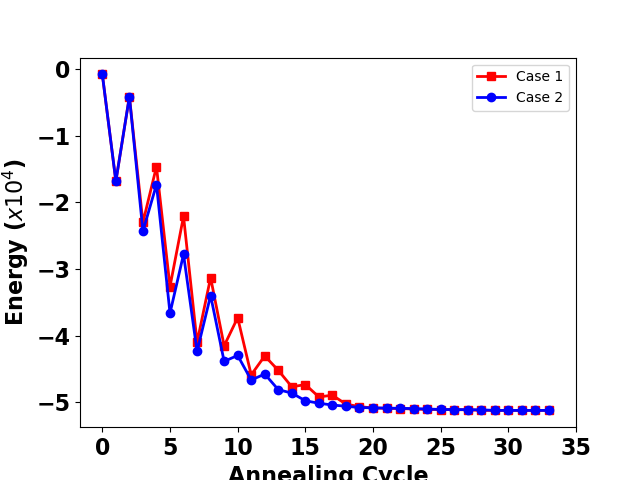
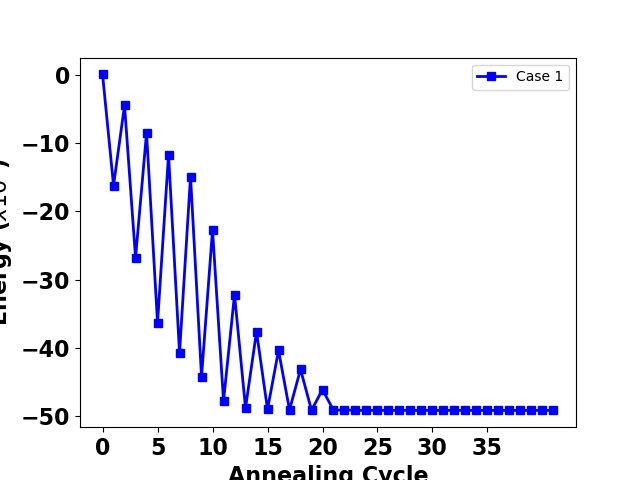
backup

diff --git a/Ising_computataion_largerImg.py b/Ising_computataion_largerImg.py
@@ -10,9 +10,9 @@ import copy
 import random
 
 
-image_size = 64*100
-rows, cols = (64,100)
-image_name ='testImg_64x100_eDRAM.png'
+image_size = 320*200
+rows, cols = (200,320)
+image_name ='testImg_320x200.png'
 
 
 def img2bin(row,col,name):
@@ -371,133 +371,8 @@ J_dict = {ind2str(2,0): [1,1,-1,-1,1,1,1,1],
           ind2str(3,3): [-1,1,1,1,1,1,1,1]}
 
 
-def ising_test_data():
-    Ising_KPI = []
-    # Generate random spin
-    randomSpin = random_spin_generator(100,rows,cols)
-    # print(randomSpin)
-    initial_spin = pad_zeros_2_list(randomSpin,rows,cols)
-    # print(initial_spin)
 
-    plt.imshow(initial_spin, cmap='Greys')
-    plt.axis('off')
-    plt.savefig('Init.png')
-    plt.show()
-
-    # Generate J
-    J = img2dict_generate_j(rows,cols,image_name)
-
-    # start Ising
-    this_spin,KPI,H_sigma_array = Ising_start(initial_spin,J,rows,cols,2,Ising_KPI)
-
-
-    # annealing
-    next_spin = annealing_ver2(30,2000,this_spin,image_size, cols)
-    # start Ising
-    this_spin,KPI,H_sigma_array = Ising_start(next_spin,J,rows,cols,1,Ising_KPI)
-
-
-    # annealing
-    next_spin = annealing_ver2(30,200,this_spin,image_size, cols)
-    # start Ising
-    this_spin,KPI,H_sigma_array = Ising_start(next_spin,J,rows,cols,1,Ising_KPI)
-
-
-    # annealing
-    next_spin = annealing_ver2(30,1200,this_spin,image_size, cols)
-    # start Ising
-    this_spin,KPI,H_sigma_array = Ising_start(next_spin,J,rows,cols,1,Ising_KPI)
-    plt.axis('off')
-    plt.savefig('iter1.png')
-    plt.imshow(this_spin, cmap='Greys')
-    plt.show()
-
-    # annealing
-    next_spin = annealing_ver2(30,200,this_spin,image_size, cols)
-    # start Ising
-    this_spin,KPI,H_sigma_array = Ising_start(next_spin,J,rows,cols,1,Ising_KPI)
-
-
-    # annealing
-    next_spin = annealing_ver2(30,900,this_spin,image_size, cols)
-    # start Ising
-    this_spin,KPI,H_sigma_array = Ising_start(next_spin,J,rows,cols,2,Ising_KPI)
-
-
-    # annealing
-    next_spin = annealing_ver2(3,500,this_spin,image_size,cols)
-    # start Ising
-    this_spin,KPI,H_sigma_array = Ising_start(next_spin,J,rows,cols,1,Ising_KPI)
-
-    # annealing
-    next_spin = annealing_ver2(3,100,this_spin,image_size,cols)
-    # start Ising
-    this_spin,KPI,H_sigma_array = Ising_start(next_spin,J,rows,cols,1,Ising_KPI)
-
-
-    # annealing
-    next_spin = annealing_ver2(4,300,this_spin,image_size,cols)
-    # start Ising
-    this_spin,KPI,H_sigma_array = Ising_start(next_spin,J,rows,cols,2,Ising_KPI)
-    plt.axis('off')
-    plt.savefig('iter2.png')
-    plt.imshow(this_spin, cmap='Greys')
-    plt.show()
-
-    # annealing
-    next_spin = annealing_ver2(42,130,this_spin,image_size,cols)
-    # start Ising
-    this_spin,KPI,H_sigma_array = Ising_start(next_spin,J,rows,cols,1,Ising_KPI)
-    # print(this_spin)
-
-
-    # annealing
-    next_spin = annealing_ver2(42,80,this_spin,image_size,cols)
-    # start Ising
-    this_spin,KPI,H_sigma_array = Ising_start(next_spin,J,rows,cols,1,Ising_KPI)
-
-    # annealing
-    next_spin = annealing_ver2(6,20,this_spin,image_size,cols)
-    # start Ising
-    this_spin,KPI,H_sigma_array = Ising_start(next_spin,J,rows,cols,1,Ising_KPI)
-
-
-    # annealing
-    next_spin = annealing_ver2(63,50,this_spin,image_size,cols)
-    # start Ising
-    this_spin,KPI,H_sigma_array = Ising_start(next_spin,J,rows,cols,1,Ising_KPI)
-
-    # annealing
-    next_spin = annealing_ver2(63,10,this_spin,image_size,cols)
-    # start Ising
-    this_spin,KPI,H_sigma_array = Ising_start(next_spin,J,rows,cols,1,Ising_KPI)
-
-
-    # annealing
-    next_spin = annealing_ver2(35,30,this_spin,image_size,cols)
-    # start Ising
-    this_spin,KPI,H_sigma_array = Ising_start(next_spin,J,rows,cols,17,Ising_KPI)
-    # print(this_spin)
-    plt.axis('off')
-    plt.savefig('last.png')
-    plt.imshow(this_spin, cmap='Greys')
-    plt.show()
-
-    KPI_new = [x / 10000 for x in KPI]
-
-    # show KPI
-    # figure(figsize=(6.5, 8), dpi=80)
-    # plt.figure(1)
-    # plt.plot(KPI_new,marker='o', color='r', linewidth=2)
-    # plt.xlabel("Annealing Cycle",fontsize=16,fontweight='bold')
-    # plt.ylabel('Energy ($x10^{4}$)',fontsize=16,fontweight='bold')
-    # plt.xticks(np.arange(0,40,5),fontsize=16,fontweight='bold')
-    # plt.yticks(fontsize=16,fontweight='bold')
-    # plt.savefig('energy.png')
-    # plt.show()
-    return KPI_new
-
-def ising_test_data_ver2():
+def ising_test_data_140K():
     Ising_KPI = []
     # Generate random spin
     randomSpin = random_spin_generator(100,rows,cols)
@@ -518,13 +393,7 @@ def ising_test_data_ver2():
 
 
     # annealing
-    next_spin = annealing_ver2(30,2000,this_spin,image_size, cols)
-    # start Ising
-    this_spin,KPI,H_sigma_array = Ising_start(next_spin,J,rows,cols,1,Ising_KPI)
-
-
-    # annealing
-    next_spin = annealing_ver2(30,100,this_spin,image_size, cols)
+    next_spin = annealing_ver2(30,20000,this_spin,image_size, cols)
     # start Ising
     this_spin,KPI,H_sigma_array = Ising_start(next_spin,J,rows,cols,1,Ising_KPI)
 
@@ -533,25 +402,31 @@ def ising_test_data_ver2():
     next_spin = annealing_ver2(30,1000,this_spin,image_size, cols)
     # start Ising
     this_spin,KPI,H_sigma_array = Ising_start(next_spin,J,rows,cols,1,Ising_KPI)
+
+
+    # annealing
+    next_spin = annealing_ver2(30,18000,this_spin,image_size, cols)
+    # start Ising
+    this_spin,KPI,H_sigma_array = Ising_start(next_spin,J,rows,cols,1,Ising_KPI)
     plt.axis('off')
     plt.savefig('iter1.png')
     plt.imshow(this_spin, cmap='Greys')
     plt.show()
 
     # annealing
-    next_spin = annealing_ver2(30,30,this_spin,image_size, cols)
+    next_spin = annealing_ver2(30,300,this_spin,image_size, cols)
     # start Ising
     this_spin,KPI,H_sigma_array = Ising_start(next_spin,J,rows,cols,1,Ising_KPI)
 
 
     # annealing
-    next_spin = annealing_ver2(30,600,this_spin,image_size, cols)
+    next_spin = annealing_ver2(30,16000,this_spin,image_size, cols)
     # start Ising
     this_spin,KPI,H_sigma_array = Ising_start(next_spin,J,rows,cols,2,Ising_KPI)
 
 
     # annealing
-    next_spin = annealing_ver2(3,400,this_spin,image_size,cols)
+    next_spin = annealing_ver2(3,14000,this_spin,image_size,cols)
     # start Ising
     this_spin,KPI,H_sigma_array = Ising_start(next_spin,J,rows,cols,1,Ising_KPI)
 
@@ -562,7 +437,7 @@ def ising_test_data_ver2():
 
 
     # annealing
-    next_spin = annealing_ver2(4,100,this_spin,image_size,cols)
+    next_spin = annealing_ver2(4,10000,this_spin,image_size,cols)
     # start Ising
     this_spin,KPI,H_sigma_array = Ising_start(next_spin,J,rows,cols,2,Ising_KPI)
     plt.axis('off')
@@ -571,32 +446,32 @@ def ising_test_data_ver2():
     plt.show()
 
     # annealing
-    next_spin = annealing_ver2(42,60,this_spin,image_size,cols)
+    next_spin = annealing_ver2(42,6000,this_spin,image_size,cols)
     # start Ising
-    this_spin,KPI,H_sigma_array = Ising_start(next_spin,J,rows,cols,1,Ising_KPI)
+    this_spin,KPI,H_sigma_array = Ising_start(next_spin,J,rows,cols,2,Ising_KPI)
     # print(this_spin)
 
 
     # annealing
-    next_spin = annealing_ver2(42,10,this_spin,image_size,cols)
+    next_spin = annealing_ver2(60,4000,this_spin,image_size,cols)
     # start Ising
-    this_spin,KPI,H_sigma_array = Ising_start(next_spin,J,rows,cols,1,Ising_KPI)
+    this_spin,KPI,H_sigma_array = Ising_start(next_spin,J,rows,cols,2,Ising_KPI)
 
     # # annealing
-    # next_spin = annealing_ver2(6,5,this_spin,image_size,cols)
-    # # start Ising
-    # this_spin,KPI,H_sigma_array = Ising_start(next_spin,J,rows,cols,1,Ising_KPI)
+    next_spin = annealing_ver2(6,3000,this_spin,image_size,cols)
+    # start Ising
+    this_spin,KPI,H_sigma_array = Ising_start(next_spin,J,rows,cols,2,Ising_KPI)
 
 
     # annealing
-    # next_spin = annealing_ver2(63,20,this_spin,image_size,cols)
-    # # start Ising
-    # this_spin,KPI,H_sigma_array = Ising_start(next_spin,J,rows,cols,1,Ising_KPI)
+    next_spin = annealing_ver2(63,2000,this_spin,image_size,cols)
+    # start Ising
+    this_spin,KPI,H_sigma_array = Ising_start(next_spin,J,rows,cols,2,Ising_KPI)
 
     # annealing
-    # next_spin = annealing_ver2(63,10,this_spin,image_size,cols)
-    # # start Ising
-    # this_spin,KPI,H_sigma_array = Ising_start(next_spin,J,rows,cols,1,Ising_KPI)
+    next_spin = annealing_ver2(63,1000,this_spin,image_size,cols)
+    # start Ising
+    this_spin,KPI,H_sigma_array = Ising_start(next_spin,J,rows,cols,2,Ising_KPI)
 
 
     # annealing
@@ -623,13 +498,15 @@ def ising_test_data_ver2():
     # plt.show()
     return KPI_new
 
-KPI_test_data = ising_test_data()
-KPI_new = ising_test_data_ver2()
 
+# KPI_test_data = ising_test_data()
+# KPI_new = ising_test_data_ver2()
+
+KPI_140K = ising_test_data_140K()
 
 plt.figure(1)
-plt.plot(KPI_test_data,marker='s', color='r', linewidth=2)
-plt.plot(KPI_new,marker='o', color='b', linewidth=2)
+plt.plot(KPI_140K,marker='s', color='b', linewidth=2)
+# plt.plot(KPI_new,marker='o', color='b', linewidth=2)
 plt.legend(["Case 1", "Case 2"])
 plt.xlabel("Annealing Cycle",fontsize=16,fontweight='bold')
 plt.ylabel('Energy ($x10^{4}$)',fontsize=16,fontweight='bold')
